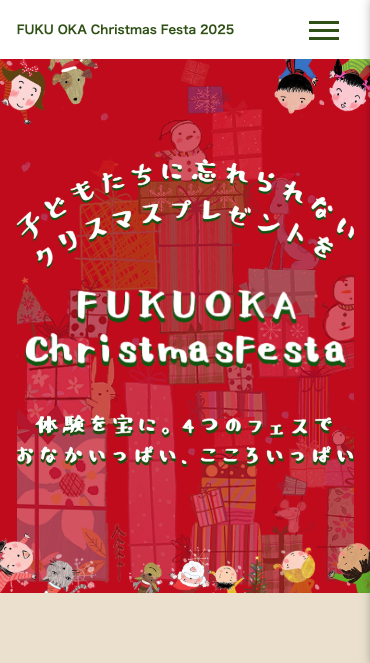
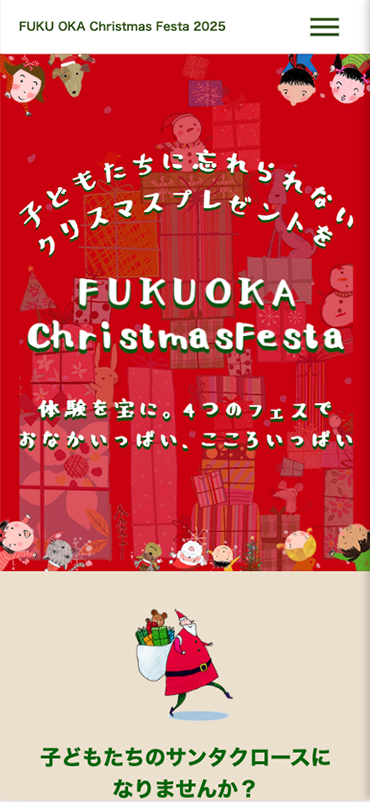
実績ページの画像を実際の画面キャプチャに差し替え
- YeLL: アプリのトップ画面と大会一覧画面
- FUKU OKA Christmas Festa: サイトトップとシアターフェスのページ
- Jelly: ブランド画面とECサイトのトップ
- 仮のモックアップSVG4点は役目を終えたため削除
- Jellyの紹介文をアパレルECブランドの内容に更新

diff --git a/src/app/(main)/_data/works.ts b/src/app/(main)/_data/works.ts
@@ -31,8 +31,8 @@ export const works: Work[] = [
     ],
     url: "https://yell-basketball.jp/home",
     images: [
-      { src: "/work/yell-basketball.png", width: 373, height: 554 },
-      { src: "/work/yell-sns.svg", width: 390, height: 844 },
+      { src: "/work/yell-basketball.png", width: 370, height: 802 },
+      { src: "/work/yell-sns.png", width: 370, height: 802 },
     ],
     soft: "#ffe2d8",
     accent: "#f4713c",
@@ -48,8 +48,8 @@ export const works: Work[] = [
     ],
     url: "https://fuku-oka-christmas-festa.com/2025/",
     images: [
-      { src: "/work/fukuoka-christmas-festa.png", width: 370, height: 663 },
-      { src: "/work/christmas-theater.svg", width: 390, height: 844 },
+      { src: "/work/fukuoka-christmas-festa.png", width: 370, height: 802 },
+      { src: "/work/christmas-theater.png", width: 370, height: 802 },
     ],
     soft: "#ffdcdc",
     accent: "#d94343",
@@ -58,14 +58,14 @@ export const works: Work[] = [
     slug: "jelly",
     title: "Jelly",
     englishTitle: "BRAND DESIGN",
-    tags: ["ブランドデザイン", "ロゴ制作"],
+    tags: ["ブランドデザイン", "ECサイト"],
     description: [
-      "水中をたゆたうクラゲをモチーフにした、ブランド「Jelly」のビジュアルアイデンティティ。しなやかな曲線だけで生き物の浮遊感を描き、ミニマルながら一目で記憶に残るシンボルに仕上げました。",
-      "ロゴタイプも曲線の流れを受け継いだオリジナルの字形で設計し、シンボルと並べたときにひとつの世界観としてつながるよう構成しています。",
+      "「Minimal Wear. Fluid Identity.」を掲げるアパレルブランド「Jelly」。水中をたゆたうクラゲをモチーフに、しなやかな曲線だけで浮遊感を描いたシンボルと、その流れを受け継ぐオリジナルのロゴタイプでブランドの世界観をつくりました。",
+      "その世界観をそのまま買い物体験へ落とし込み、商品一覧からカート、アカウントまでを設計。余白と静けさを大切にしたトーンで、ブランドの手触りが伝わるECサイトに仕上げています。",
     ],
     images: [
-      { src: "/work/jelly-chat.svg", width: 390, height: 844 },
-      { src: "/work/jelly-dashboard.svg", width: 390, height: 844 },
+      { src: "/work/jelly.png", width: 370, height: 802 },
+      { src: "/work/jelly-ec-top.png", width: 370, height: 802 },
     ],
     soft: "#e7ecf2",
     accent: "#5f7d9c",
